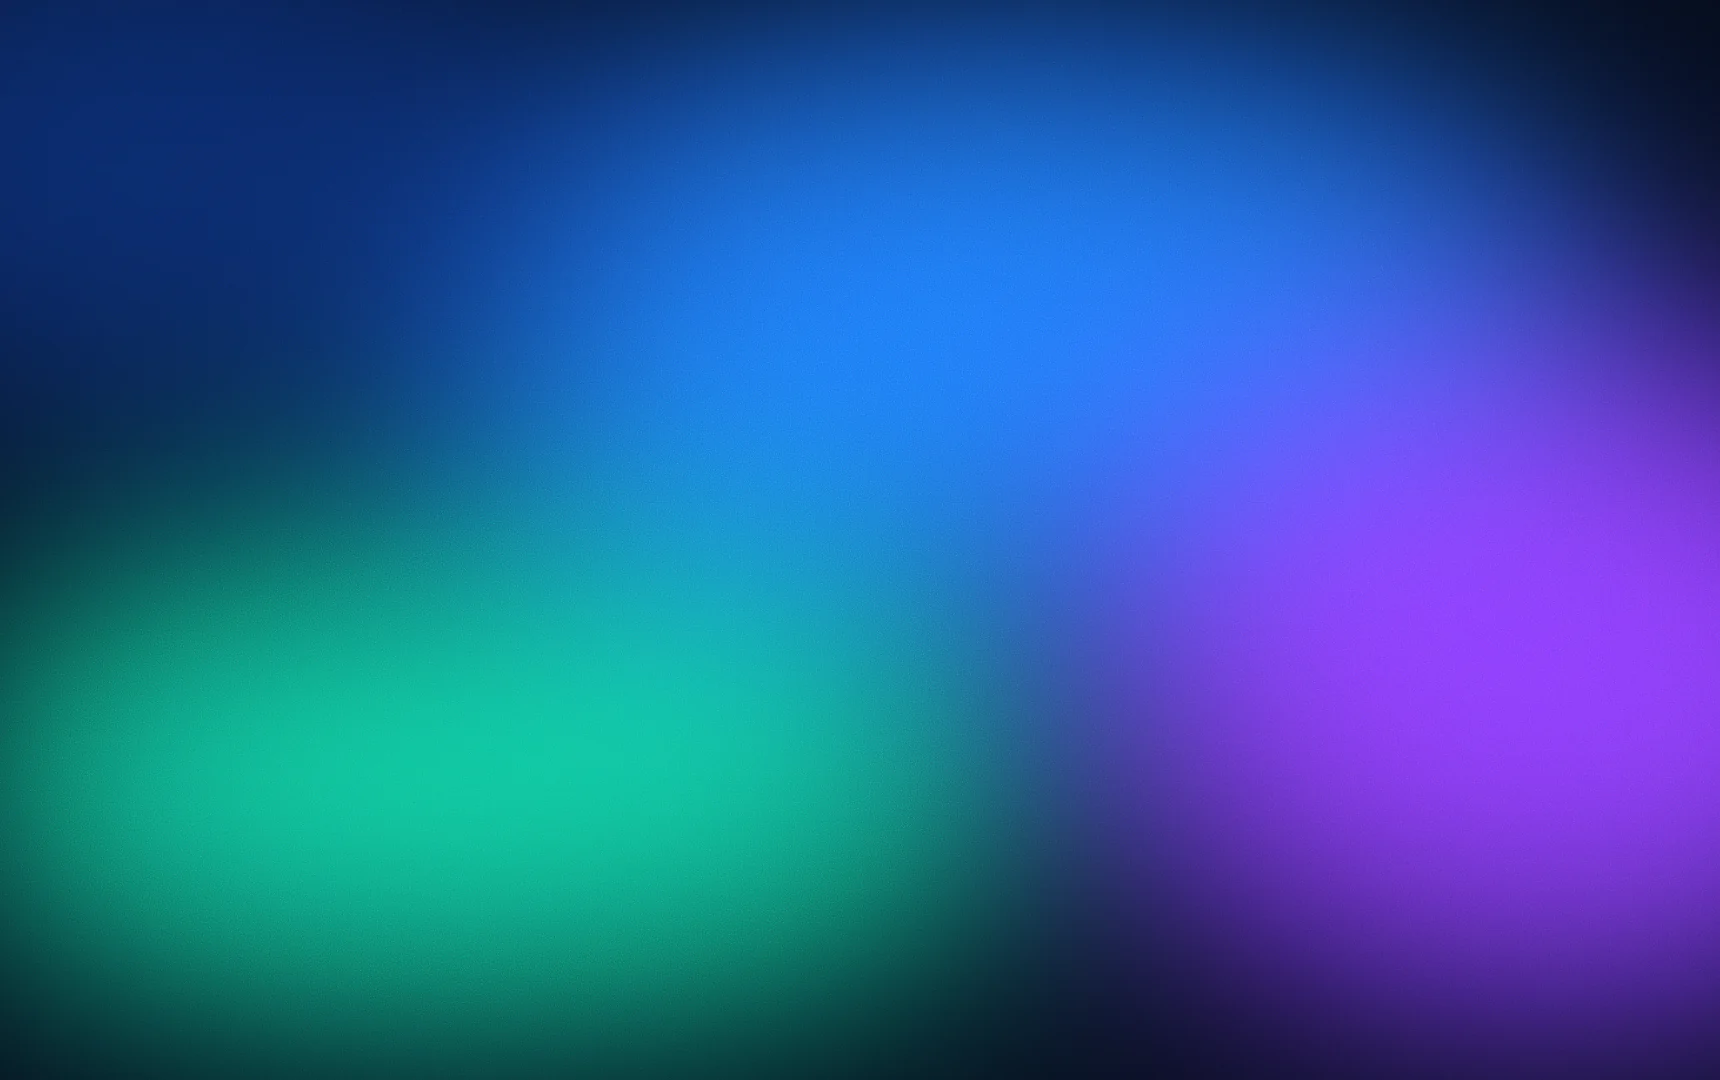
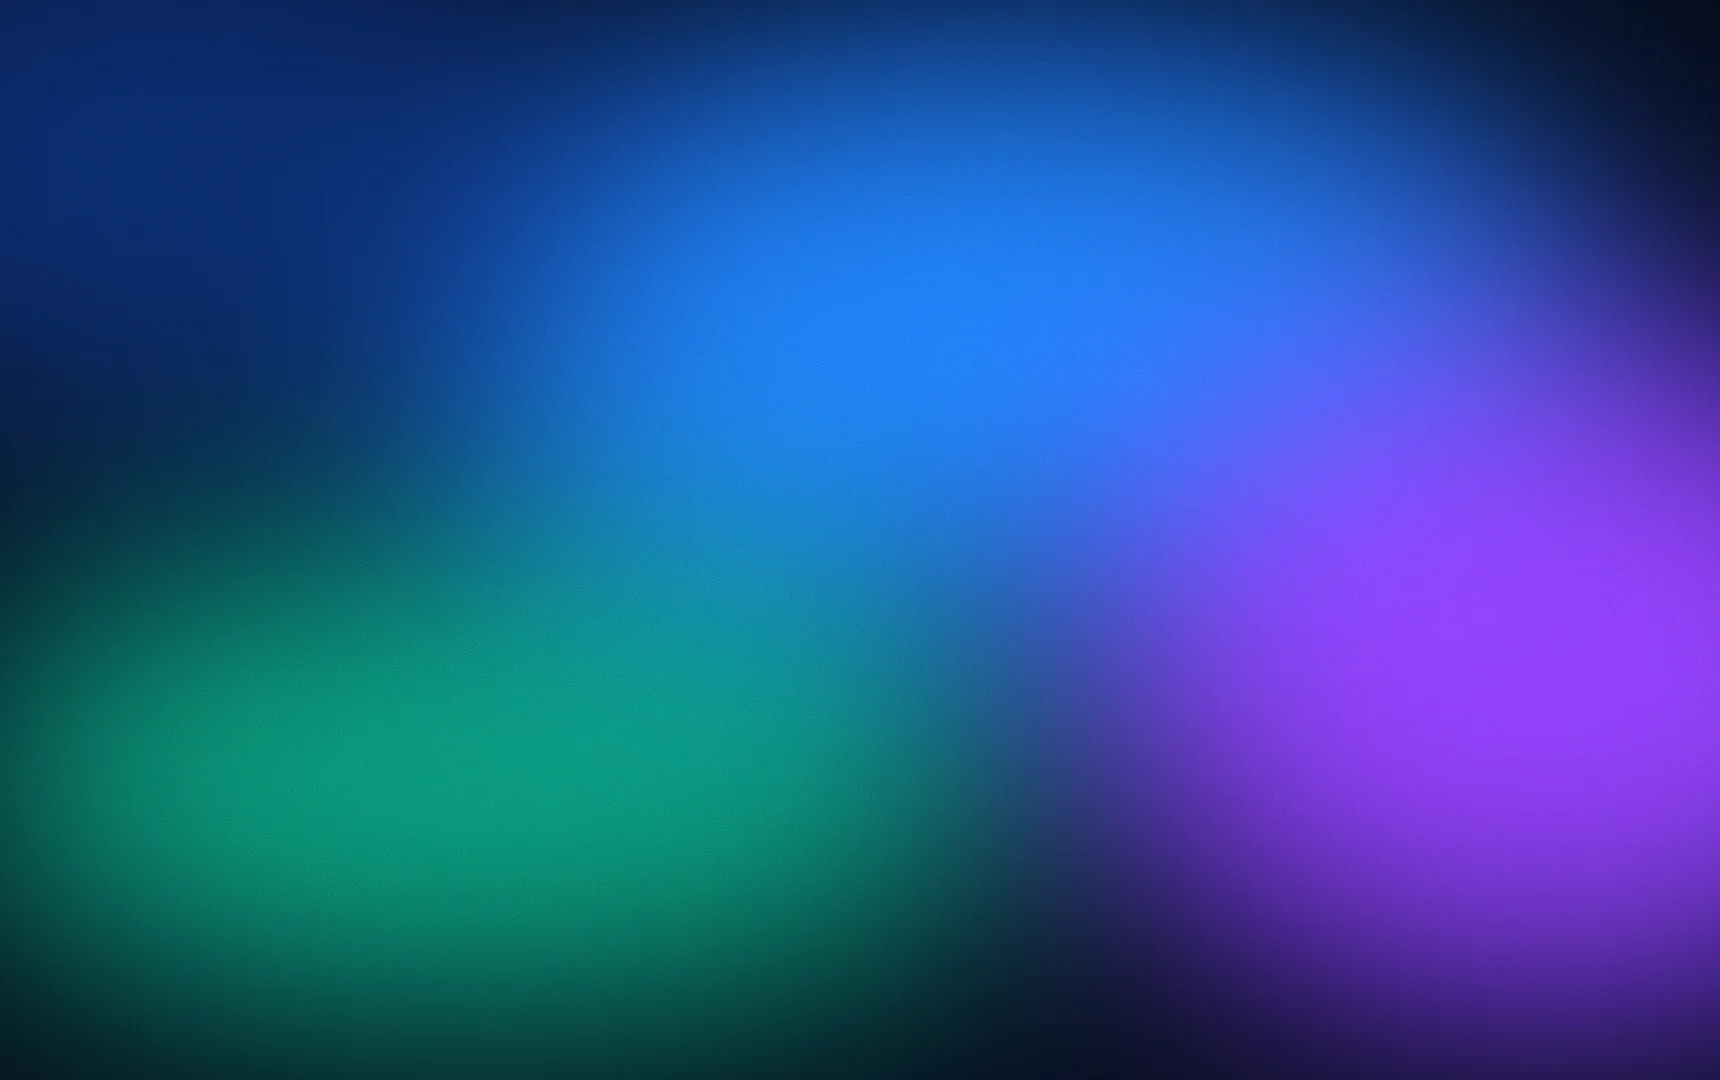
registry: background presets, and PaymentCard on CardBackground
backgrounds.ts holds the four gradients and the ten artwork backgrounds as
CardBackground data (a new card-backgrounds registry item). PaymentCard
takes any background (design stays as a preset name), paints both faces
with Card.Background, derives its ink from the background, and lets Frost
read the background itself. The playground swiper mixes gradients and
artwork. Tide, aurora and dusk are a shade deeper so light text reads on
every part of them.

Changed region(s): [[0.0, 0.4583, 0.5855, 0.9778]]

diff --git a/apps/docs/registry/cardstock/payment-card.tsx b/apps/docs/registry/cardstock/payment-card.tsx
@@ -1,75 +1,50 @@
 "use client";
-import { Card, type CardRootProps, type CardRootState } from "@danolekh/cardstock";
+import {
+  backgroundInk,
+  backgroundTone,
+  Card,
+  type CardBackground,
+  type CardRootProps,
+  type CardRootState,
+} from "@danolekh/cardstock";
 import { Frost } from "@danolekh/cardstock/frost";
 import type * as React from "react";
+
+import { BACKGROUNDS, type BackgroundName } from "./backgrounds";
 
 /* A styled card built from the cardstock primitives: tilt with a glare, a flip, a number that
  * decodes in fixed cells, spending along the bottom edge and frost when frozen. Everything that
  * moves reads the primitives' data attributes and CSS variables, so restyle freely. */
 
-export type CardDesign = "ink" | "paper" | "sage" | "ember";
+/** The four gradient designs the card started with; every preset is in `BACKGROUNDS`. */
+export const DESIGNS = {
+  ink: BACKGROUNDS.ink,
+  paper: BACKGROUNDS.paper,
+  sage: BACKGROUNDS.sage,
+  ember: BACKGROUNDS.ember,
+} as const;
+export type CardDesign = keyof typeof DESIGNS;
 
-type Palette = { bg: string; ink: string; sub: string; line: string; stops: [string, number][] };
+/** A hex ink at an alpha, as a real colour: the SVG decorations can't use CSS variables or
+ * color-mix(), because the frost snapshot draws each SVG as a standalone image. */
+function alpha(hex: string, a: number): string {
+  const h = hex.replace("#", "");
+  const full = h.length === 3 ? [...h].map((c) => c + c).join("") : h.slice(0, 6);
+  const [r, g, b] = [0, 2, 4].map((i) => parseInt(full.slice(i, i + 2), 16));
+  return `rgb(${r} ${g} ${b} / ${a})`;
+}
 
-export const DESIGNS: Record<CardDesign, Palette & { label: string }> = {
-  ink: {
-    label: "Ink",
-    stops: [
-      ["#34322d", 0],
-      ["#171614", 0.55],
-      ["#080807", 1],
-    ],
-    bg: "linear-gradient(135deg, #34322d, #171614 55%, #080807)",
-    ink: "#f1dfa6",
-    sub: "rgb(241 223 166 / 0.62)",
-    line: "rgb(241 223 166 / 0.1)",
-  },
-  paper: {
-    label: "Paper",
-    stops: [
-      ["#fbf8f1", 0],
-      ["#efe8d8", 0.6],
-      ["#e2d8c3", 1],
-    ],
-    bg: "linear-gradient(135deg, #fbf8f1, #efe8d8 60%, #e2d8c3)",
-    ink: "#1c1a17",
-    sub: "rgb(28 26 23 / 0.58)",
-    line: "rgb(28 26 23 / 0.07)",
-  },
-  sage: {
-    label: "Sage",
-    stops: [
-      ["#7f9b84", 0],
-      ["#566f5b", 0.55],
-      ["#3a4d3f", 1],
-    ],
-    bg: "linear-gradient(135deg, #7f9b84, #566f5b 55%, #3a4d3f)",
-    ink: "#f4f1e8",
-    sub: "rgb(244 241 232 / 0.7)",
-    line: "rgb(244 241 232 / 0.1)",
-  },
-  ember: {
-    label: "Ember",
-    stops: [
-      ["#ff8a5c", 0],
-      ["#e0512b", 0.5],
-      ["#a8321a", 1],
-    ],
-    bg: "linear-gradient(135deg, #ff8a5c, #e0512b 50%, #a8321a)",
-    ink: "#fff6ee",
-    sub: "rgb(255 246 238 / 0.72)",
-    line: "rgb(255 246 238 / 0.12)",
-  },
-};
-
-export interface PaymentCardProps extends Omit<CardRootProps, "children"> {
+export interface PaymentCardProps extends Omit<CardRootProps, "children" | "background"> {
   /** Rendered inside `Card.Root` after the card: a place for triggers and other parts. */
   children?: React.ReactNode;
   number: string;
   holder: string;
   expiry: string;
   securityCode: string;
-  design?: CardDesign;
+  /** What the card is painted with: any `CardBackground`, e.g. one you stored for this card. */
+  background?: CardBackground;
+  /** A preset from `backgrounds.ts` by name, when there's no `background`. */
+  design?: BackgroundName;
   /** Wordmark in the top-left corner. */
   brand?: string;
   spent?: number;
@@ -91,6 +66,7 @@ export function PaymentCard({
   holder,
   expiry,
   securityCode,
+  background,
   design = "ink",
   brand = "cardstock",
   spent,
@@ -101,17 +77,26 @@ export function PaymentCard({
   children,
   ...root
 }: PaymentCardProps): React.ReactElement {
-  const d = DESIGNS[design];
+  const bg: CardBackground = background ?? BACKGROUNDS[design];
+  const ink = backgroundInk(bg);
+  const d = { ink, sub: alpha(ink, 0.64), line: alpha(ink, 0.1) };
   const vars = {
-    "--card-bg": d.bg,
     "--card-ink": d.ink,
     "--card-sub": d.sub,
     "--card-line": d.line,
   } as React.CSSProperties;
-  const version = `${design}:${spent}:${limit}`;
+  const artwork = bg.type === "image";
+  // Artwork is busier than a gradient: a soft shadow keeps the text off it.
+  const lift = artwork
+    ? backgroundTone(bg) === "dark"
+      ? "[text-shadow:0_1px_2px_rgb(0_0_0/0.35)]"
+      : "[text-shadow:0_1px_1px_rgb(255_255_255/0.4)]"
+    : "";
+  const version = `${bg.type === "image" ? bg.src : JSON.stringify(bg)}:${spent}:${limit}`;
   return (
     <Card.Root
       {...root}
+      background={bg}
       // Your className and style merge with the card's own, as values or functions of its state;
       // your style wins, so you can override the palette variables (--card-bg, --card-ink, …).
       className={(state) =>
@@ -127,8 +112,9 @@ export function PaymentCard({
           {/* The faces ignore the pointer: turned by the tilt, they would sit in front of the flip
               button in 3D and take its clicks. Nothing on them is interactive. */}
           <Card.Body className="pointer-events-none absolute inset-0 [transform:rotateY(calc(var(--card-flipped)*180deg))] transition-transform duration-[600ms] ease-[cubic-bezier(0.22,1,0.36,1)] transform-3d motion-reduce:[transform:none]">
-            <Card.Front className={face} style={{ background: "var(--card-bg)", color: "var(--card-ink)" }}>
-              <Pattern color={d.line} />
+            <Card.Front className={`${face} ${lift}`} style={{ color: "var(--card-ink)" }}>
+              <Card.Background loading={active ? "eager" : "lazy"} className="absolute inset-0" />
+              {!artwork && <Pattern color={d.line} />}
               <div className="absolute inset-x-[6.5cqw] top-[6cqw] flex items-start justify-between">
                 <span className="text-[5cqw] leading-none font-extrabold tracking-tight">{brand}</span>
                 <span className="text-[3cqw] leading-none font-semibold tracking-[0.18em] text-[var(--card-sub)] uppercase">
@@ -170,14 +156,15 @@ export function PaymentCard({
                     "radial-gradient(circle at calc(var(--card-pointer-x) * 100%) calc(var(--card-pointer-y) * 100%), rgb(255 255 255 / 0.55), transparent 55%)",
                 }}
               />
-              <Frost webgl={active} stops={d.stops} version={version} />
+              <Frost webgl={active} version={version} />
             </Card.Front>
 
             <Card.Back
               className={`${face} [transform:rotateY(180deg)] motion-reduce:[transform:none]`}
-              style={{ background: "var(--card-bg)", color: "var(--card-ink)" }}
+              style={{ color: "var(--card-ink)" }}
             >
-              <Pattern color={d.line} />
+              <Card.Background loading="lazy" className="absolute inset-0" />
+              {!artwork && <Pattern color={d.line} />}
               <div className="absolute inset-x-0 top-[11%] h-[18%] bg-[#111]" />
               <div className="absolute inset-x-[6.5%] top-[40%] flex items-center gap-[4%]">
                 <div className="h-[2.1em] flex-1 rounded-[3px] bg-[repeating-linear-gradient(135deg,#f4f4f4_0_6px,#e6e6e6_6px_12px)]" />
@@ -188,8 +175,9 @@ export function PaymentCard({
               </div>
               <p className="absolute inset-x-[6.5cqw] bottom-[6cqw] text-[2.7cqw] leading-snug text-[var(--card-sub)]">
                 Demo card. The number fails the Luhn check.
+                {bg.type === "image" && bg.credit ? ` Artwork: ${bg.credit}.` : ""}
               </p>
-              <Frost webgl={active} stops={d.stops} version={`${version}:back`} />
+              <Frost webgl={active} version={`${version}:back`} />
             </Card.Back>
           </Card.Body>
           {/* The flip button sits over the card instead of wrapping it, so its name is just its

diff --git a/apps/docs/registry/cardstock/backgrounds.ts b/apps/docs/registry/cardstock/backgrounds.ts
@@ -1,0 +1,78 @@
+import type { CardBackground, ImageBackground } from "@danolekh/cardstock";
+
+/* cardstock's backgrounds, as data. Each one is a plain `CardBackground` you can pass to
+ * `Card.Root`, store (as JSON, or by its key), or copy and change. The images are original
+ * artwork hosted at cardstock.danolekh.com with CORS, so the frost can draw them; download them to
+ * serve them yourself. */
+
+const HOST = "https://cardstock.danolekh.com/backgrounds";
+
+const art = (name: string, rest: Omit<ImageBackground, "type" | "src" | "srcSet"> & { label: string }) =>
+  ({
+    type: "image",
+    src: `${HOST}/${name}.webp`,
+    srcSet: `${HOST}/${name}-860.webp 860w, ${HOST}/${name}.webp 1720w`,
+    ...rest,
+  }) as const;
+
+export const BACKGROUNDS = {
+  ink: {
+    type: "linear",
+    label: "Ink",
+    stops: [
+      ["#34322d", 0],
+      ["#171614", 0.55],
+      ["#080807", 1],
+    ],
+    ink: "#f1dfa6",
+  },
+  paper: {
+    type: "linear",
+    label: "Paper",
+    stops: [
+      ["#fbf8f1", 0],
+      ["#efe8d8", 0.6],
+      ["#e2d8c3", 1],
+    ],
+    ink: "#1c1a17",
+  },
+  sage: {
+    type: "linear",
+    label: "Sage",
+    stops: [
+      ["#7f9b84", 0],
+      ["#566f5b", 0.55],
+      ["#3a4d3f", 1],
+    ],
+    ink: "#f4f1e8",
+    tone: "dark",
+  },
+  ember: {
+    type: "linear",
+    label: "Ember",
+    stops: [
+      ["#ff8a5c", 0],
+      ["#e0512b", 0.5],
+      ["#a8321a", 1],
+    ],
+    ink: "#fff6ee",
+    tone: "dark",
+  },
+  guilloche: art("guilloche", { label: "Guilloché", color: "#10151d", tone: "dark", ink: "#f1dfa6" }),
+  "guilloche-sand": art("guilloche-sand", {
+    label: "Guilloché sand",
+    color: "#e9ddc4",
+    tone: "light",
+    ink: "#3b301d",
+  }),
+  holo: art("holo", { label: "Holo", color: "#c7b5f4", tone: "light", ink: "#231a3d" }),
+  aurora: art("aurora", { label: "Aurora", color: "#123a7a", tone: "dark", ink: "#f2f7ff" }),
+  dusk: art("dusk", { label: "Dusk", color: "#a83a5e", tone: "dark", ink: "#fff4ec" }),
+  topo: art("topo", { label: "Topo", color: "#1a2528", tone: "dark", ink: "#e4f1ec" }),
+  steel: art("steel", { label: "Steel", color: "#c9d0d7", tone: "light", ink: "#1b2027" }),
+  linen: art("linen", { label: "Linen", color: "#f1ebdf", tone: "light", ink: "#2a241a" }),
+  tide: art("tide", { label: "Tide", color: "#145060", tone: "dark", ink: "#effbf8" }),
+  noir: art("noir", { label: "Noir", color: "#111218", tone: "dark", ink: "#e8e9f0" }),
+} as const satisfies Record<string, CardBackground & { label: string }>;
+
+export type BackgroundName = keyof typeof BACKGROUNDS;

diff --git a/apps/docs/registry/cardstock/card-playground.tsx b/apps/docs/registry/cardstock/card-playground.tsx
@@ -3,14 +3,24 @@ import { Switch } from "@base-ui/react/switch";
 import type * as React from "react";
 import { useState } from "react";
 
+import { BACKGROUNDS, type BackgroundName } from "./backgrounds";
 import { CardSwiper } from "./card-carousel";
 import { LimitField } from "./limit-field";
-import { type CardDesign, DESIGNS, PaymentCard } from "./payment-card";
+import { PaymentCard } from "./payment-card";
 
-/* Everything together: four designs in the swiper, each card with its own freeze, one reveal and
+/* Everything together: gradient and artwork backgrounds in the swiper, each card with its own freeze, one reveal and
  * flip for the card in the middle, and the limit. */
 
-const KEYS = Object.keys(DESIGNS) as CardDesign[];
+const KEYS: BackgroundName[] = [
+  "ink",
+  "holo",
+  "guilloche",
+  "paper",
+  "aurora",
+  "topo",
+  "ember",
+  "guilloche-sand",
+];
 const DEMO = {
   number: "4821 5903 2716 4822",
   holder: "Max Mustermann",
@@ -23,7 +33,7 @@ export function CardPlayground(): React.ReactElement {
   const [index, setIndex] = useState(0);
   const [flipped, setFlipped] = useState(false);
   const [revealed, setRevealed] = useState(false);
-  const [frozen, setFrozen] = useState<ReadonlySet<CardDesign>>(new Set());
+  const [frozen, setFrozen] = useState<ReadonlySet<BackgroundName>>(new Set());
   const [limit, setLimit] = useState(1200);
   const current = KEYS[index] ?? "ink";
   const isFrozen = frozen.has(current);
@@ -44,7 +54,7 @@ export function CardPlayground(): React.ReactElement {
   return (
     <div className="not-prose border-fd-border bg-fd-card text-fd-card-foreground w-full overflow-hidden rounded-2xl border">
       <div className="px-6 py-10">
-        <CardSwiper index={index} onIndexChange={choose} labels={KEYS.map((k) => DESIGNS[k].label)}>
+        <CardSwiper index={index} onIndexChange={choose} labels={KEYS.map((k) => BACKGROUNDS[k].label)}>
           {(i, active) => {
             const design = KEYS[i] ?? "ink";
             return (

diff --git a/apps/docs/scripts/backgrounds.ts b/apps/docs/scripts/backgrounds.ts
@@ -191,16 +191,17 @@ function topo() {
 
 function tide() {
   const rnd = random(23);
+  // Deep water throughout: light text sits on every band, the bottom one included.
   const shades = [
-    "#0a2a3a",
-    "#0d3a4c",
-    "#12505f",
-    "#186a73",
-    "#1f8584",
-    "#3aa39a",
-    "#6cc2b3",
-    "#a7dccd",
-    "#e2f1e8",
+    "#08212e",
+    "#0b2d3c",
+    "#0e394a",
+    "#124757",
+    "#165663",
+    "#1b6570",
+    "#20747c",
+    "#268389",
+    "#2d9294",
   ];
   const bands = shades.map((color, k) => {
     const base = 120 + k * 112;
@@ -273,7 +274,7 @@ const COMPOSITIONS: Record<string, () => string> = {
     mesh(
       "#050b1a",
       [
-        ["#11d3a4", 0.28, 0.72, 0.62, 0.42],
+        ["#0a9c7c", 0.28, 0.72, 0.62, 0.42],
         ["#1f7bff", 0.58, 0.3, 0.7, 0.5],
         ["#8a3dff", 0.9, 0.62, 0.52, 0.6],
         ["#0b2a6b", 0.1, 0.15, 0.5, 0.5],
@@ -285,9 +286,9 @@ const COMPOSITIONS: Record<string, () => string> = {
     mesh(
       "#2a0f2e",
       [
-        ["#ff8a4c", 0.2, 0.85, 0.7, 0.6],
-        ["#ff4f7b", 0.55, 0.55, 0.6, 0.55],
-        ["#ffc27a", 0.05, 0.35, 0.4, 0.5],
+        ["#e2582c", 0.2, 0.85, 0.7, 0.6],
+        ["#d93a68", 0.55, 0.55, 0.6, 0.55],
+        ["#f08a45", 0.05, 0.35, 0.4, 0.5],
         ["#6b2a8f", 0.88, 0.2, 0.6, 0.6],
       ],
       140,
